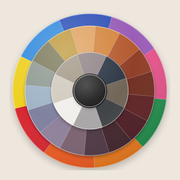
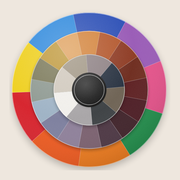
Кольцо 4 толще

diff --git a/index.html b/index.html
@@ -184,7 +184,7 @@ function drawWheel(){
  const svg=document.getElementById('svgwheel');
  // Стопка матовых дисков, как у физического круга: снизу самый большой (кольцо 4), сверху меньше, в центре чёрная «шляпка».
  // У каждого диска своя неподвижная тень (видно, что слои лежат друг на друге) и свой поворот.
- const R_OUT={1:32,2:76,3:128,4:152};
+ const R_OUT={1:30,2:70,3:116,4:152};
  const p=(rad,a)=>[rad*Math.cos(a),rad*Math.sin(a)];
  const wedge=(r0,r1,a0,a1)=>{const [x0,y0]=p(r1,a0),[x1,y1]=p(r1,a1),[x2,y2]=p(r0,a1),[x3,y3]=p(r0,a0);
    return `M${x0},${y0}A${r1},${r1} 0 0 1 ${x1},${y1}L${x2},${y2}A${r0},${r0} 0 0 0 ${x3},${y3}Z`};
@@ -225,7 +225,7 @@ function initSpin(svg){
  let drag=null,last=null,lastT=0,moved=0,startEl=null,idle=true,idleTimer=null;
  const center=()=>{const r=svg.getBoundingClientRect();return [r.left+r.width/2,r.top+r.height/2,r.width/320]};
  const angleAt=e=>{const [cx,cy]=center();return Math.atan2(e.clientY-cy,e.clientX-cx)*180/Math.PI};
- const ringAt=e=>{const [cx,cy,k]=center();const d=Math.hypot(e.clientX-cx,e.clientY-cy)/k;return d<33?1:d<77?2:d<129?3:4};
+ const ringAt=e=>{const [cx,cy,k]=center();const d=Math.hypot(e.clientX-cx,e.clientY-cy)/k;return d<31?1:d<71?2:d<117?3:4};
  const apply=o=>o.g.setAttribute('transform',`rotate(${o.ang})`);
  function frame(){
   for(const k in R){const o=R[k];if(drag===o)continue;

diff --git a/sw.js b/sw.js
@@ -1,6 +1,6 @@
 // Offline support. Pages: network first, so updates show up immediately; cache is the fallback offline.
 // Images/fonts: cache first.
-const CACHE = "color-wheel-v13";
+const CACHE = "color-wheel-v14";
 const FILES = ["./", "./index.html", "./manifest.webmanifest", "./icon-192.png", "./icon-512.png", "./apple-touch-icon.png"];
 self.addEventListener("install", e => e.waitUntil(caches.open(CACHE).then(c => c.addAll(FILES)).then(() => self.skipWaiting())));
 self.addEventListener("activate", e => e.waitUntil(
